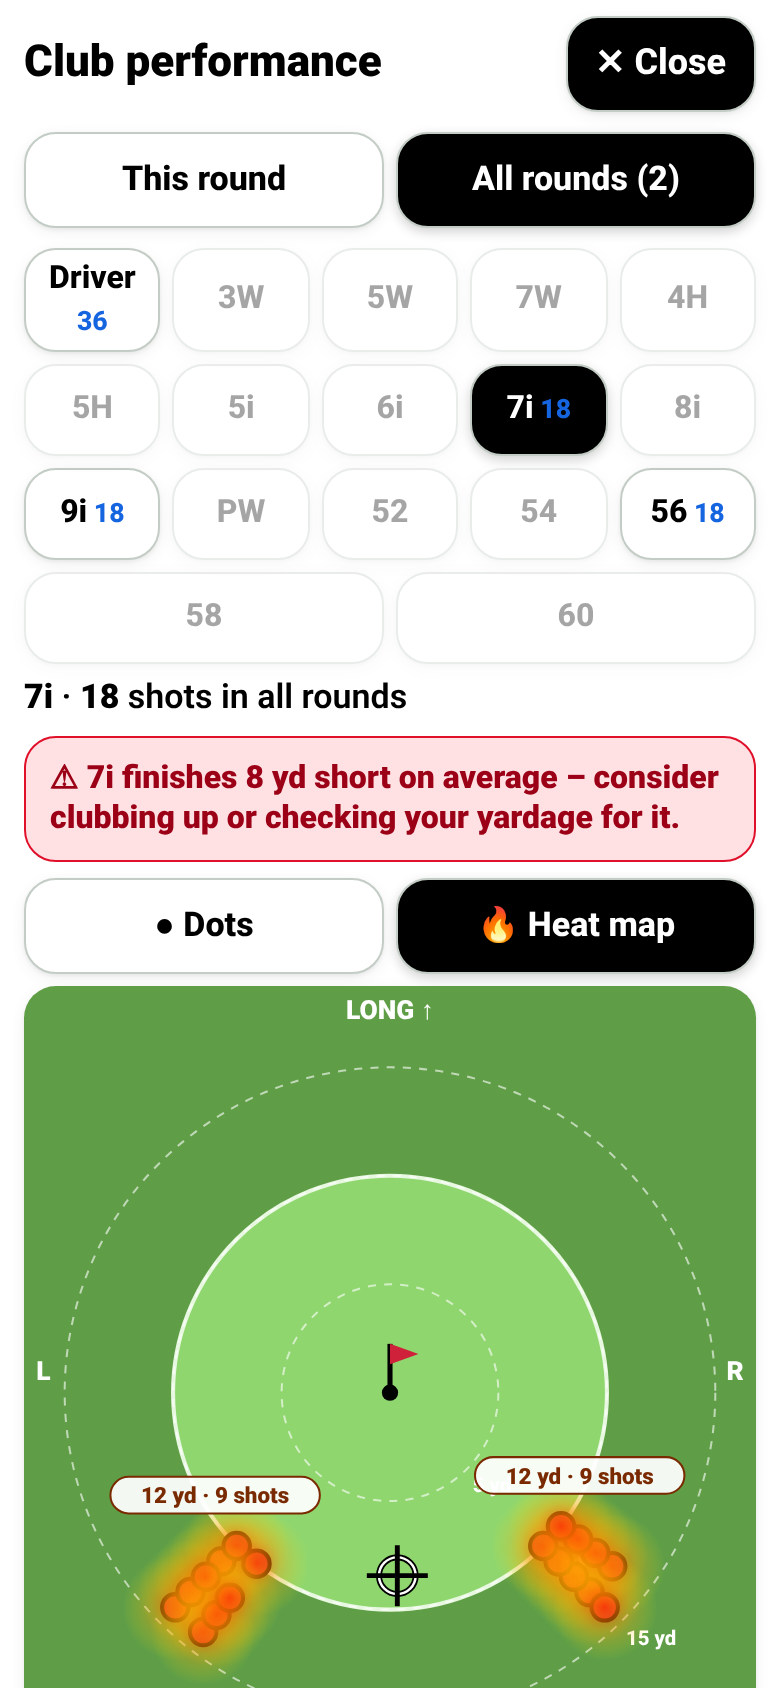
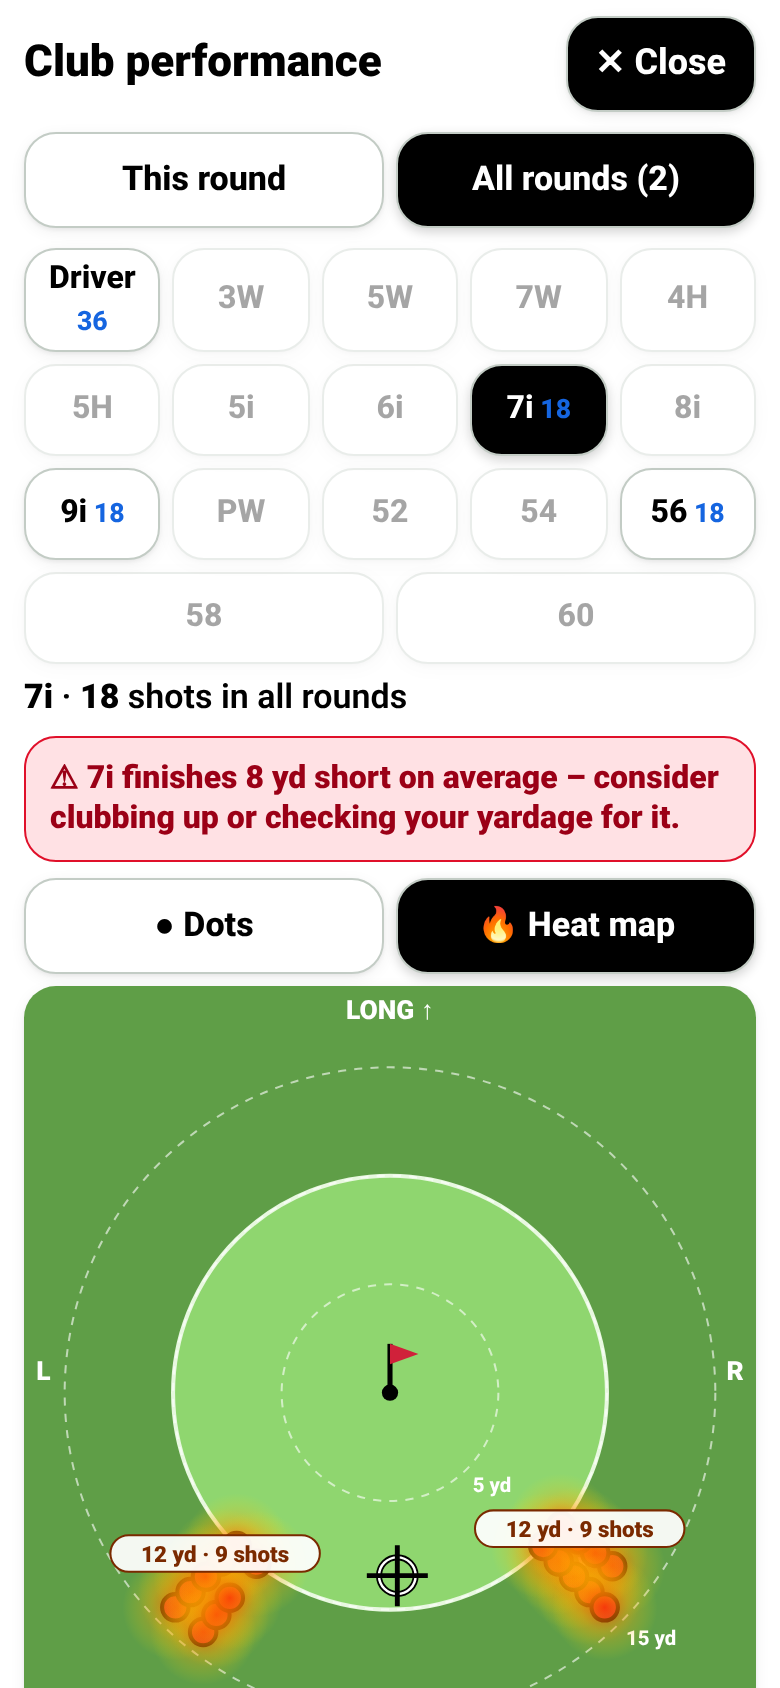
v52: heat-map islands by real distance (3 ft / 3 yd chain, merge within 2), singles untagged

Changed region(s): [[0.1231, 0.8626, 0.4308, 0.955], [0.5846, 0.8626, 0.8923, 0.9242]]

diff --git a/app.js b/app.js
@@ -1153,6 +1153,27 @@
     if (kind === 'pin') { var f = svg.querySelector('#pinflag'); if (f) return [+f.getAttribute('cx'), +f.getAttribute('cy')]; }
     return [180, 200];
   }
+  // Real-distance islands: shots within 3 ft (3 yd on yardage maps / for off-green shots) chain into one island;
+  // then islands whose edges come within 2 ft (2 yd) of each other are merged (edge = 3 ft link zone around each shot).
+  function heatReal(pts, C) {
+    var yd = pts.every(function (p) { return p.u === 'yd'; });
+    pts.forEach(function (p) { var dx = p.x - C[0], dy = C[1] - p.y, L = Math.hypot(dx, dy), d = yd ? p.d : p.u === 'yd' ? p.d * 3 : p.d;
+      p.rx = L ? d * dx / L : 0; p.ry = L ? d * dy / L : 0; p.big = !yd && p.u === 'yd'; });
+    return yd;
+  }
+  function heatIslandsReal(pts, yd) {
+    var id = pts.map(function (_, i) { return i; }), find = function (i) { while (id[i] !== i) i = id[i] = id[id[i]]; return i; };
+    var link = function (a, b) { return yd ? 3 : (a.big || b.big ? 9 : 3); }, gap = yd ? 2 : 2;
+    for (var i = 0; i < pts.length; i++) for (var j = i + 1; j < pts.length; j++) if (Math.hypot(pts[i].rx - pts[j].rx, pts[i].ry - pts[j].ry) <= link(pts[i], pts[j])) id[find(i)] = find(j);
+    var groups = {}; pts.forEach(function (p, i) { (groups[find(i)] = groups[find(i)] || []).push(p); });
+    var G = Object.keys(groups).map(function (k) { return groups[k]; });
+    var circ = function (g) { var cx = 0, cy = 0; g.forEach(function (p) { cx += p.rx; cy += p.ry; }); cx /= g.length; cy /= g.length;
+      return [cx, cy, Math.max.apply(null, g.map(function (p) { return Math.hypot(p.rx - cx, p.ry - cy); }))]; };
+    for (var merged = true; merged;) { merged = false;
+      for (var a = 0; a < G.length && !merged; a++) for (var b = a + 1; b < G.length && !merged; b++) {
+        var md = Infinity; G[a].forEach(function (p) { G[b].forEach(function (q) { md = Math.min(md, Math.hypot(p.rx - q.rx, p.ry - q.ry) - link(p, q)); }); }); if (md <= gap) { G[a] = G[a].concat(G[b]); G.splice(b, 1); merged = true; } } }
+    return G.sort(function (a, b) { return b.length - a.length; });
+  }
   function heatIslands(pts, link) {
     var id = pts.map(function (_, i) { return i; }), find = function (i) { while (id[i] !== i) i = id[i] = id[id[i]]; return i; };
     for (var i = 0; i < pts.length; i++) for (var j = i + 1; j < pts.length; j++) if (Math.hypot(pts[i].x - pts[j].x, pts[i].y - pts[j].y) <= link) id[find(i)] = find(j);
@@ -1180,9 +1201,11 @@
     svg.classList.add('heat');
     var h = '<defs><radialGradient id="hgrad"><stop offset="0" stop-color="#ff1e00" stop-opacity=".62"/><stop offset=".45" stop-color="#ff9a00" stop-opacity=".34"/><stop offset="1" stop-color="#ffe600" stop-opacity="0"/></radialGradient></defs>';
     pts.forEach(function (p) { h += '<circle class="hblob" cx="' + f1(p.x) + '" cy="' + f1(p.y) + '" r="26" fill="url(#hgrad)"/>'; });
-    var isl = heatIslands(pts, HEAT_LINK), boxes = [];
+    var isl = heatIslandsReal(pts, heatReal(pts, C)), boxes = [];
+    var lone = isl.filter(function (g) { return g.length === 1; }).length, tagged = isl.length - lone;
     isl.forEach(function (g, i) {
-      var mx = g.reduce(function (a, p) { return a + p.x; }, 0) / g.length, top = Math.min.apply(null, g.map(function (p) { return p.y; }));
+      if (g.length === 1 && tagged) { h += '<g class="island lone" data-n="1"></g>'; return; }
+      var mx = g.reduce(function (a, p) { return a + p.x; }, 0) / g.length, top = g.reduce(function (a, p) { return a + p.y; }, 0) / g.length + 8;
       var t = heatFmt(g) + ' · ' + g.length + (g.length === 1 ? ' shot' : ' shots'), w = t.length * 6.2 + 10, x = Math.max(4, Math.min(356 - w, mx - w / 2)), y = top - 34;
       for (var k = 0; k < 6 && boxes.some(function (b) { return x < b[2] && x + w > b[0] && y < b[3] && y + 18 > b[1]; }); k++) y += 22;
       if (y < 4) y = top + 28; boxes.push([x, y, x + w, y + 18]);
@@ -1199,10 +1222,10 @@
     var U = yd ? ' yd' : ' ft', part = function (v, a, b) { return Math.round(Math.abs(v)) ? Math.round(Math.abs(v)) + U + ' ' + (v > 0 ? a : b) : ''; };
     var words = [part(lg, 'long', 'short'), part(lr, 'right', 'left')].filter(Boolean).join(', ');
     var sm = document.createElement('p'); sm.className = 'heatsum'; sm.id = 'heatsum';
-    sm.innerHTML = '<b>⊕ Average ' + (view.map === 'putt' ? 'putt start' : 'finish') + ':</b> ' + (words ? words + ' of the hole' : 'centred on the hole') + ' · ' + pts.length + ' shot' + (pts.length === 1 ? '' : 's') + (isl.length > 1 ? ' in ' + isl.length + ' groups' : '') + '.';
+    sm.innerHTML = '<b>⊕ Average ' + (view.map === 'putt' ? 'putt start' : 'finish') + ':</b> ' + (words ? words + ' of the hole' : 'centred on the hole') + ' · ' + pts.length + ' shot' + (pts.length === 1 ? '' : 's') + (tagged > 1 || (tagged && lone) ? ' – ' + tagged + ' cluster' + (tagged === 1 ? '' : 's') + (lone ? ' + ' + lone + ' single shot' + (lone === 1 ? '' : 's') + ' (no tag)' : '') : '') + '.';
     anc.parentNode.insertBefore(sm, anc.nextSibling);
     var lg2 = document.createElement('p'); lg2.className = 'help muted'; lg2.id = 'heatnote';
-    lg2.textContent = 'Heat map: red = most shots, yellow = few. Each white tag is one cluster of shots (average distance to the hole · number of shots). ⊕ = average finish of all shots shown. Shots with no direction entered are left out.';
+    lg2.textContent = 'Heat map: red = most shots, yellow = few. Each white tag is one cluster – shots within 3 ft of each other (3 yd off the green), clusters less than 2 ft apart merged – with its average distance to the hole · number of shots. Single, isolated shots get no tag. ⊕ = average finish of all shots shown. Shots with no direction entered are left out.';
     sm.parentNode.insertBefore(lg2, sm.nextSibling);
   }
   // ---------- Club performance (app only): everything from where the ball FINISHED (next row's distance + direction) ----------

diff --git a/sw.js b/sw.js
@@ -1,5 +1,5 @@
 // Offline support: cache the whole app on install, serve cache-first.
-const CACHE = 'golf-sg-v51';
+const CACHE = 'golf-sg-v52';
 const ASSETS = ['./', './index.html', './styles.css', './sg.js', './app.js', './config.js', './onedrive.js', './vendor/msal-browser.min.js', './vendor/jspdf.umd.min.js',
   './manifest.webmanifest', './icons/apple-touch-icon.png', './icons/icon-192.png',
   './icons/icon-512.png', './icons/icon-512-maskable.png'];
